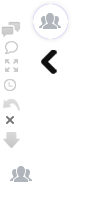
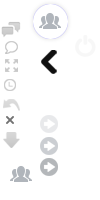
修改登录页面

Changed region(s): [[0.39, 0.66, 0.6, 0.9]]

diff --git a/public/css/chat_new.css b/public/css/chat_new.css
@@ -3,7 +3,7 @@
 	/* layout */
 
 	html,body{height:100%;width:100%;overflow:hidden;background:rgb(222,225,229);}
-	.wall-room{width:100%;height:100%}
+	.wall-room{width:100%;height:100%;}
 	.main .main-content{height:100%;background: #fff}
 		  .content-inner{padding:48px 0px 52px 0px;box-sizing:border-box;height:100%;}
 		  		.content-inner .clear-overflow{overflow-y:auto;height:100%}
@@ -145,25 +145,28 @@ left: 0px}
 
 /* set nickname page */
 
-	.login-wall{background:#d5d9de;top:100%;box-shadow: 1px 1px 5px #868CA8;-webkit-transition:top 0.1s ease-in-out}
-		.login-wall .line{height:0px;width:100%;border-top:#b2b4b6 solid 1px;border-bottom:#fff solid 1px;position: absolute;
+	.wall-setname{background:#d5d9de;box-shadow: 1px 1px 5px #868CA8;opacity:1;}
+	.wall-setname .main{margin-left:0px;}
+	.wall-setname .main .main-out{position:absolute;top:40px;right:0px;padding-top: 7px;padding-left: 10px;background: #C7C7C7;
+border: #fff solid 1px;width:40px;border-radius:3px;border-right:0}
+		.wall-setname .line{height:0px;width:100%;border-top:#b2b4b6 solid 1px;border-bottom:#fff solid 1px;position: absolute;
 top: 50%;}
-		.login-wall p{text-align:center;}
-		.login-wall .topic-title{color:#fff;font-size:13px;top: -145px;}
-		.login-wall .topic-content{font-size: 26px;color: #555555;bottom: 77px;}
-		.login-wall .topic-title,.login-wall .topic-content{padding-right:20px;position:absolute;text-align: center;width:100%;}
-			.login-wall .login-input{z-index:99;position:relative;text-align:center;bottom: 22px}
-			.login-wall .login-input input{font-size: 15px;padding: 8px;border:#b8bec4 solid 1px;box-shadow: 0px 0px 1px #BEBEBE;color: #666;}
+		.wall-setname .topic-title{color:#fff;font-size:13px;top: -145px;}
+		.wall-setname .topic-content{font-size: 26px;color: #555555;bottom: 77px;}
+		.wall-setname .topic-title,.wall-setname .topic-content{padding-right:20px;position:absolute;text-align: center;width:100%;}
+			.wall-setname .login-input{z-index:99;position:relative;text-align:center;bottom: 22px}
+			.wall-setname .login-input input{font-size: 15px;padding: 8px;border:#b8bec4 solid 1px;box-shadow: 0px 0px 1px #BEBEBE;color: #666;}
 				.login-input .nickname-input input{padding-left:47px;width:19em;}
 				.login-input .nickname-input{display:inline-block;position:relative;}
 				.login-input .nickname-input img{width: 34px;height: 34px;top: 4px;left: 4px;position:absolute;}
-
+				.login-input .nickname-input .loading{width: 16px;height: 16px;top: 13px;left: 12px}
 				.login-input .nickname-input input::-webkit-input-placeholder {
 				    color:#c1c5ca;
 				    letter-spacing:0px;
 				}
-			.login-wall .account-btn{text-align:center;width: 100%;position: absolute;bottom: -65px}
-			.login-wall .account-btn .btn{background:#c4c7cb;border-radius:3px;border:#fff solid 1px;color:#fff;font-size:12px;padding: 5px}
-			.login-wall .account-btn .btn:hover{background:#A6AAAF}
-			.login-wall .account-btn .btn:active{background:#959799}
-	
+			.wall-setname .account-btn{text-align:center;width: 100%;position: absolute;bottom: -65px}
+			.wall-setname .account-btn .btn{background:#c4c7cb;border-radius:3px;border:#fff solid 1px;color:#fff;font-size:12px;padding: 5px 8px;}
+			.wall-setname .account-btn .btn:hover{background:#A6AAAF}
+			.wall-setname .account-btn .btn:active{background:#959799}
+			.wall-setname .account-btn .icon-user{vertical-align: middle;margin-bottom: 3px;margin-right:3px;}
+		.wall-setname .login-btn{width:18px;height:18px;display:inline-block;position:absolute;right: 10px;top: 12px}

diff --git a/public/css/common.css b/public/css/common.css
@@ -30,7 +30,7 @@ ul,li,body,h1,h2,h3,input{padding:0px;margin:0px;}
 a{text-decoration:none;}
 .clear-fix{zoom:1;clear: both;}
 .clear-fix:after{content:"\20";display:block;clear:both;}
-.hidden{display:none;}
+
 
 ::-webkit-scrollbar {width: 8px;height: 8px;}
 ::-webkit-scrollbar-thumb {border-width: 1px;border-style: solid;border-color: #fff;border-radius: 6px;background: #d7d7d7;}
@@ -43,6 +43,7 @@ a{text-decoration:none;}
 body{font-family: "Ebrima",tahoma,arial,\5b8b\4f53;}
 header{height: 35px;background: red;position: relative;z-index: 30;}
 
+.icon-loading{width:16px;height:16px;background:url(../images/loadinfo.net.gif);display:inline-block;}
 .icon-chat{width:13px;height:13px;display:inline-block;vertical-align:middle;background:url(../images/all.png);background-position:-5px -41px;margin-right:5px;}
 .icon-screen{display: inline-block;width: 13px;height: 13px;float: right;background: url(../images/all.png);background-position: -5px -59px;}
 .icon-close{width: 8px;height: 8px;background: url(../images/all.png);background-position: -6px -116px;display: inline-block;}
@@ -53,4 +54,11 @@ header{height: 35px;background: red;position: relative;z-index: 30;}
 .icon-back{width:9px;height:11px;background:url(../images/all.png);background-position:-5px -128px;display:inline-block;}
 .icon-down{width:17px;height:19px;background:url(../images/all.png);background-position:-3px -130px;display:inline-block;}
 .icon-larrow-black{width: 17px;height: 27px;;background:url(../images/all.png);background-position:-40px -49px;display:inline-block;}
-.icon-larrow-black:hover{background-position:-40px -78px;};
+.icon-larrow-black:hover{background-position:-40px -78px;}
+.icon-go{width:18px;height:18px;display:inline-block;background:url(../images/all.png);background-position:-40px -115px;}
+.icon-go:hover,.icon-go-click{background-position:-40px -137px;}
+.icon-go:active{background-position:-40px -158px}
+.icon-user{width:14px;height:12px;display:inline-block;background:url(../images/all.png);background-position:-42px -182px;}
+.icon-poweroff{width:21px;height:22px;display:inline-block;background:url(../images/all.png);background-position:-75px -8px;;}
+
+.hidden{display:none;}

diff --git a/public/js/src/we.chat/we.page.chat.js b/public/js/src/we.chat/we.page.chat.js
@@ -173,10 +173,13 @@ WE.pageChat = {
 */
 WE.pageChat.login = {
 
+	isLogin:false,
+
 	init: function( ){
 
 		this.ui = {
-			nickNameInput:$('#login-nickname-input')
+			nickNameInput: $('#login-nickname-input'),
+			nickNameBtn: $('#login-nickname-btn')
 		}
 		
 		this.regEvent();
@@ -188,11 +191,30 @@ WE.pageChat.login = {
 
 		this.ui.nickNameInput.keyup(function(e){
 
+			var value = $.trim( _this.ui.nickNameInput.val() );
+
+			if( value != "" ){
+				_this.ui.nickNameBtn.find('.icon-go').addClass('icon-go-click');
+			}else{
+				_this.ui.nickNameBtn.find('.icon-go').removeClass('icon-go-click');
+			}
+
 			if( e.keyCode == 13 ){
-				var nickName = $.trim( _this.ui.nickNameInput.val() );
-				if( nickName != "" ){
+				var nickName = value;
+				if( nickName != "" && !_this.isLogin ){
+					_this.ui.nickNameBtn.find('.icon-go').removeClass('icon-go-click');
 					_this.nickNameLogin( nickName );
 				}	
+			}
+		});
+
+		this.ui.nickNameBtn.click(function(){
+
+			var nickName = $.trim( _this.ui.nickNameInput.val() );
+
+			if( nickName != "" ){
+				_this.ui.nickNameBtn.find('.icon-go').removeClass('icon-go-click');
+				_this.nickNameLogin( nickName );
 			}
 		});
 
@@ -200,6 +222,9 @@ WE.pageChat.login = {
 
 	nickNameLogin: function( nickName ){
 		var _this = this;
+			_this.isLogin = true;
+			_this.ui.nickNameBtn.find('.icon-go').addClass('hidden');
+			_this.ui.nickNameBtn.find('.icon-loading').removeClass('hidden');
 		var model = new WE.api.ChatModel();
 		var ctrl = new WE.Controller();
 		ctrl.update = function( e ){
@@ -207,16 +232,21 @@ WE.pageChat.login = {
 			var data = e.data;
 
 			if( data.code == 0 ){
-
 				console.log( _this.connectSocket);
 				$('#wall-room').removeClass('login-style');
 
-				location.reload();
-
+				
+				location.reload();	
 			}else{
 
 			}
 
+			setTimeout(function(){
+				_this.isLogin = false;
+				_this.ui.nickNameBtn.find('.icon-go').removeClass('hidden');
+				_this.ui.nickNameBtn.find('.icon-loading').addClass('hidden');
+			},1000)
+			
 		};
 		model.addObserver( ctrl );
 		model.updateUserName( nickName );
